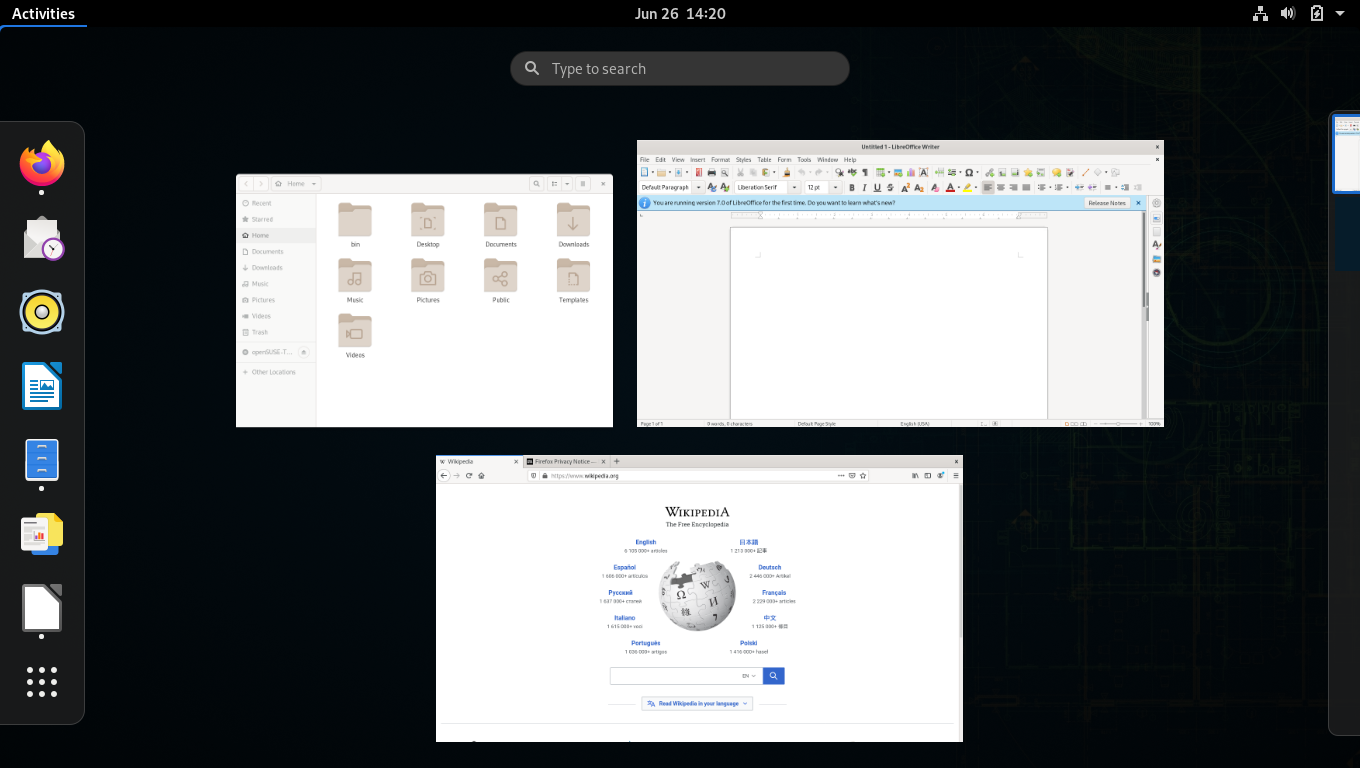
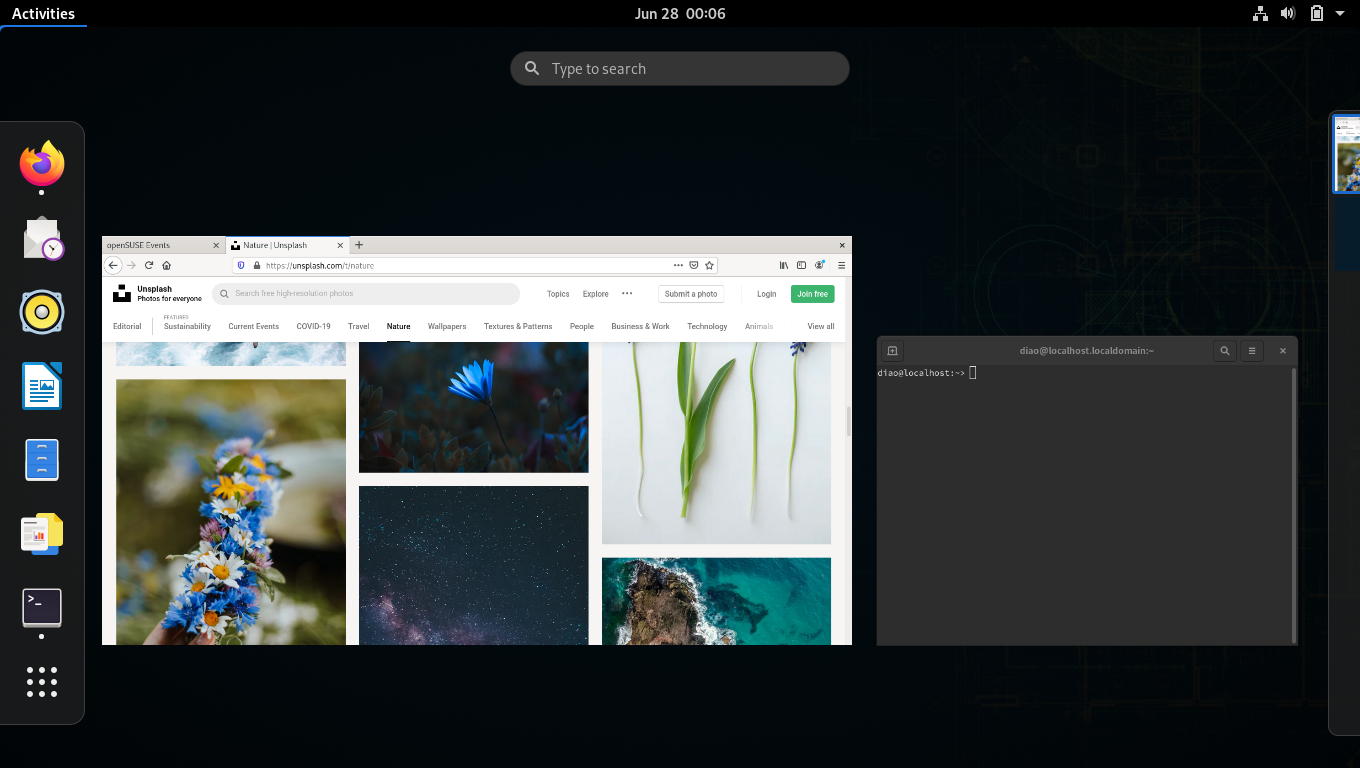
Tools and more screenshots

diff --git a/_includes/tools.html b/_includes/tools.html
@@ -1,0 +1,57 @@
+<section id="tools" class="py-5">
+  <div class="container">
+    <div class="row">
+      <div class="col-sm-6">
+        <h1>{{ locale.tools_title }}</h1>
+      </div>
+      <div class="col-sm-6">
+        <div class="media">
+          <svg class="tool-logo mr-3" viewBox="0 0 16 16" width="4em" height="4em" fill="currentColor">
+            <path
+              d="M6.412 3.007v5.507l-1.717.344v-5.85L2.977 4.04v5.161l-2.283.454L0 13.337l11.564 1.721V.942L9.846 1.974v5.853l-1.717.344V1.974z" />
+            <path
+              d="M11.564.942v14.116L16 13.337l-.252-3.682-3.461-1.828V1.974zM8.129 1.99v6.18l.633-.126V3.059zM4.696 3.012l-.001 5.846.634-.127V4.045z"
+              opacity="0.5" />
+          </svg>
+          <div class="media-body">
+            <h5 class="mt-0">Open Build Service</h5>
+            <p>{{ locale.obs_summary }}</p>
+          </div>
+        </div>
+        <div class="media">
+          <svg class="tool-logo mr-3" viewBox="0 0 24 24" fill="currentColor">
+            <path
+              d="M6.77 3.771a7.2 7.2 0 00-5.011 2.104c-2.615 2.901-2.01 7.513-.166 9.383 1.842 1.87 3.332 2.067 3.332 2.067l1.052-2.522c-.545-.273-2.019-1.24-2.648-2.313-.628-1.072-.65-3.504 1.231-4.998 1.881-1.493 4.284-.87 5.273.433.99 1.302 1.254 2.321.933 5.162l-.003.015a5.75 5.75 0 001.475 5.697c1.407 1.406 3.199 1.669 5.138 1.229l-.044-2.453c-1.147.456-2.218.186-3.09-.687a3.093 3.093 0 014.371-4.372c.619.62.863 1.492.84 1.928l-.065 5.78h1.378l.01.01h2.426L24 18.079l-2.352-.01c-.008-1.585-.01-3.42.019-4.135.049-1.191-.078-2.279-1.166-3.369-1.107-1.107-2.582-1.64-4.09-1.64a6.21 6.21 0 00-2.634.609c-.13-1.675-.884-3.065-1.894-3.946-2.01-1.751-3.209-1.846-5.114-1.819zm.363 9.551l-2.038 5.387 1.991 1.36 1.958-5.13z" />
+          </svg>
+          <div class="media-body">
+            <h5 class="mt-0">openQA</h5>
+            <p>{{ locale.oqa_summary }}</p>
+          </div>
+        </div>
+        <div class="media">
+          <svg class="tool-logo mr-3" viewBox="0 0 16 16" fill="currentColor">
+            <path opacity="0.5"
+              d="M2.317.233l.79 2.64 1.265 1.51a3.569 3.569 0 00-1.215.455c-.447.393-.695.886-.89 1.406L.845 7.349c-.076-.065-.132-.011-.193.014-.217.128-.455.238-.582.441-.23.599.16.92.41 1.29.158.173.515.391.856.414l2.817-1.377 1.538-.287c-.27 1.873-.245 3.912-.298 5.907l-.813 1.366-.195.156 4.884-.377 1.9.871.594-.26 1.214-.065-.258-.338.916-.04-.05.482.813-.468h.362l.22.195.4-.286.62-.026c-.357-2.018-.584-4.058-.788-6.102-.04-.527-.082-1.051-.22-1.406a5.044 5.044 0 00-1.252-1.678c-.63-.52-1.28-.992-2.003-1.275-.642-.243-1.284-.074-1.925.053a10.693 10.693 0 00-2.08.715c.133-.312.359-.611.65-.765.399-.208.74-.302 1.159-.419.375-.14.612-.37.865-.586.698-.84 1.298-1.706 1.886-2.576-1.06.243-2.12.656-3.179 1.054-.671.25-1.273.57-1.782 1.067l-1.085 1.08c-.244.187-.367-.006-.505-.156l-.8-1.198zm5.506 10.43l.886.301.79 1.448-.763 1.413-.73.418s-.517-3.264-.49-3.279c.027-.013.307-.302.307-.302zm4.925.726l.66 1.292.142 1.183-.927 1.118s-.64-.684-.621-.722c.018-.039.498-2.813.498-2.813z" />
+            <path
+              d="M2.908 1.262l.639 1.5 1.562 1.786a6.77 6.77 0 00-1.382.378c-.24.116-.47.24-.597.494l-.39.69c-.125.253-.39.455-.651.66l-1.067.834c.213.103.403.238.578.398-.188-.104-.371-.214-.591-.271-.153-.024-.304-.023-.444.089-.125.104-.11.28-.085.444.048.254.26.48.502.65.225.101.432.05.631-.068.173-.16.243-.44.222-.825.124-.023.097.718.119.633.011-.045 1.828-.954 2.31-1.066.49-.127 1.255-.168 1.809-.34.344-.11.596-.372.809-.7l-.172.365a.98.98 0 01-.563.427l-.309 3.281-.006 3.174-.537.8.366-.013.389-.514-.286.616s1.873-.126 1.873-.112c0 .013-.578-3.796-.578-3.796s.626-.7.639-.71c.013-.01 2.289.769 2.289.769l-.35-.414-.288-.159.349.116s.811.983.815.997c.004.013.145-.177.145-.177l-.85 3.45 1.129.384-.036-.527.27.654.416.028-.281-.682.489.594.268-.054-.483-.696.564-3.36-.65-.513-.505-.676.478.486-.518-.737-.04-.973.18.838.196-.689-.1.805.375.825.752.56-.014.129.592-.217.382-.864.033-.535.055.542s-.329.796-.329.824c0 .026.43-.406.43-.406l-.472.554.753 1.358.255 1.481.188-.134-.04.053-.605.79.397-.086.154-.244-.068.297.141.007-.032.324.295-.264.22.069.069-.394v.4l.207-.04.1.337.148-.426.289-.013c-.276-2.09-.64-4.181-.738-6.272-.01-.398-.345-1.102-.705-1.563-.42-.484-1.28-1.52-2.498-1.81-.665-.08-1.342.028-2.08.269-.652.191-1.326.424-2.058.775.172.283.4.56.79.889.122.119.341.152.557.135-.15.053-.303.098-.464.013a3.655 3.655 0 01-.684-.634 2.454 2.454 0 01-.316-.508c-.124-.283.022-.642.262-1.027.218-.268.458-.53.946-.717.44-.175.88-.35 1.297-.581.471-.306 1.223-1.28 1.623-1.961-1.09.4-2.179.72-3.262 1.358-.405.278-.803.71-1.208 1.156-.173.195-.36.378-.605.508-.336.18-.568.009-.724-.129a5.176 5.176 0 01-.637-.85c-.24-.33-.492-.66-.86-.988-.423-.393-.804-.846-1.188-1.258zM9.802 2.34l-.96 1.166.651-.226-1.31.643zM5.248 4.773c.085-.001.169 0 .25.01-.53.04-.773.132-1.233.368.169-.129.264-.225.568-.329.133-.03.275-.046.415-.049zm.148.733a.9.9 0 01.44.12c-.582-.157-.9-.027-1.15.354-.029-.024.166-.355.423-.433a.923.923 0 01.287-.041zM5.35 5.7a.676.676 0 01.165.014c.108.038.158.119.211.195-.113-.1-.23-.178-.37-.141.16.018.22.118.242.25.02.177-.132.28-.234.296-.1.015-.23-.011-.305-.12-.022-.045-.079-.208.012-.325a.889.889 0 00-.268.17.954.954 0 01.278-.26.592.592 0 01.27-.08zM1.061 8.01c.136.16.269.315.334.529.009.197-.078.193-.164.192-.07-.001-.206-.082-.162-.148a.52.52 0 00.051-.275zm-.497.049c.106.112.211.186.23.343.009.037.016.13-.058.115-.215-.203-.085-.181-.171-.458z" />
+          </svg>
+          <div class="media-body">
+            <h5 class="mt-0">YaST</h5>
+            <p>{{ locale.yast_summary }}</p>
+          </div>
+        </div>
+        <div class="media">
+          <svg class="tool-logo mr-3" viewBox="0 0 32 32" fill="currentColor">
+            <circle r="16" cy="16" cx="16" opacity="0.5" />
+            <path
+              d="M15.996 3a.5 5 0 00-.496 5 .5 5 0 00.5 5 .5 5 0 00.5-5 .5 5 0 00-.5-5 .5 5 0 00-.004 0zm-3.338.441a5 .5 75 00-.023.002 5 .5 75 00.812 4.96 5 .5 75 001.776 4.699 5 .5 75 00-.81-4.96 5 .5 75 00-1.755-4.7zm6.701 0a.5 5 15 00-1.771 4.702.5 5 15 00-.81 4.959.5 5 15 001.775-4.7.5 5 15 00.812-4.959.5 5 15 00-.006-.002zM9.521 4.734a5 .5 60 00-.021.008 5 .5 60 002.066 4.58 5 .5 60 002.934 4.08 5 .5 60 00-2.066-4.58A5 .5 60 009.52 4.734zm12.952 0a.5 5 30 00-2.907 4.088.5 5 30 00-2.066 4.58.5 5 30 002.934-4.08.5 5 30 002.066-4.58.5 5 30 00-.027-.008zM25.14 6.79a.5 5 45 00-3.838 3.201.5 5 45 00-3.182 3.889.5 5 45 003.889-3.182.5 5 45 003.183-3.89.5 5 45 00-.052-.018zm-18.287.002a5 .5 45 00-.047.016 5 .5 45 003.183 3.89 5 .5 45 003.889 3.182 5 .5 45 00-3.182-3.889 5 .5 45 00-3.843-3.199zM4.855 9.463a5 .5 30 00-.113.037 5 .5 30 004.08 2.934 5 .5 30 004.58 2.066 5 .5 30 00-4.08-2.934 5 .5 30 00-4.467-2.103zm22.28 0a.5 5 60 00-4.457 2.103.5 5 60 00-4.08 2.934.5 5 60 004.58-2.066.5 5 60 004.08-2.934.5 5 60 00-.123-.037zM3.717 12.549a5 .5 15 00-.274.086 5 .5 15 004.7 1.777 5 .5 15 004.959.81 5 .5 15 00-4.7-1.775 5 .5 15 00-4.685-.898zm24.472 0a.5 5 75 00-4.591.898.5 5 75 00-4.7 1.776.5 5 75 004.96-.81.5 5 75 004.699-1.778.5 5 75 00-.368-.086zM7.73 15.5A5 .5 0 003 16a5 .5 0 005 .5 5 .5 0 005-.5 5 .5 0 00-5-.5 5 .5 0 00-.27 0zm16 0A5 .5 0 0019 16a5 .5 0 005 .5 5 .5 0 005-.5 5 .5 0 00-5-.5 5 .5 0 00-.27 0zm-10.994 1.19a.5 5 75 00-4.593.898.5 5 75 00-4.7 1.777.5 5 75 004.96-.812.5 5 75 004.699-1.776.5 5 75 00-.366-.088zm6.512 0a5 .5 15 00-.35.087 5 .5 15 004.7 1.776 5 .5 15 004.959.812 5 .5 15 00-4.7-1.777 5 .5 15 00-4.609-.899zm-5.969.773a.5 5 60 00-4.457 2.103.5 5 60 00-4.08 2.934.5 5 60 004.58-2.066.5 5 60 004.08-2.934.5 5 60 00-.123-.037zm5.432 0a5 .5 30 00-.113.037 5 .5 30 004.08 2.934 5 .5 30 004.58 2.066 5 .5 30 00-4.08-2.934 5 .5 30 00-4.467-2.103zm-4.885.64a.5 5 45 00-3.836 3.2.5 5 45 00-3.183 3.89.5 5 45 003.89-3.183.5 5 45 003.182-3.889.5 5 45 00-.053-.017zm4.34 0a5 .5 45 00-.045.018 5 .5 45 003.182 3.889 5 .5 45 003.89 3.183 5 .5 45 00-3.183-3.89 5 .5 45 00-3.844-3.2zm-3.693.489a.5 5 30 00-2.907 4.086.5 5 30 00-2.066 4.58.5 5 30 002.934-4.08.5 5 30 002.066-4.58.5 5 30 00-.027-.006zm3.048 0a5 .5 60 00-.021.006 5 .5 60 002.066 4.58 5 .5 60 002.934 4.08 5 .5 60 00-2.066-4.58 5 .5 60 00-2.913-4.086zm-2.302.304a.5 5 15 00-1.772 4.702.5 5 15 00-.812 4.959.5 5 15 001.777-4.7.5 5 15 00.81-4.959.5 5 15 00-.003-.002zm1.58 0a5 .5 75 00-.022.002 5 .5 75 00.81 4.96 5 .5 75 001.778 4.699 5 .5 75 00-.812-4.96 5 .5 75 00-1.754-4.7zM16 19a-.5-5 0 00-.5 5-.5-5 0 00.5 5-.5-5 0 00.5-5-.5-5 0 00-.5-5z" />
+          </svg>
+          <div class="media-body">
+            <h5 class="mt-0">KIWI</h5>
+            <p>{{ locale.kiwi_summary }}</p>
+          </div>
+        </div>
+      </div>
+    </div>
+  </div>
+</section>

diff --git a/_includes/screenshots.html b/_includes/screenshots.html
@@ -1,18 +1,20 @@
-<section id="screenshots">
-  <div class="container my-3">
+<section id="screenshots" class="my-5">
+  <div class="container">
     <div id="screenshot-wrap">
       <img class="d-block w-100" src="/assets/images/laptop.svg" />
-      <div id="screenshot-carousel" class="carousel slide carousel-fade" data-ride="carousel">
+      <div id="screenshot-carousel" class="carousel slide carousel-fade" data-ride="carousel" data-interval="2000">
+        <ol class="carousel-indicators">
+          {% for counter in (0..5) %}
+          <li data-target="#screenshot-carousel" data-slide-to="{{ counter }}"
+            class="{% if counter == 0 %}active{% endif %}"></li>
+          {% endfor %}
+        </ol>
         <div class="carousel-inner">
-          <div class="carousel-item active">
-            <img src="/assets/images/screenshot-1.png" class="d-block w-100" alt="GNOME desktop">
+          {% for counter in (1..6) %}
+          <div class="carousel-item {% if counter == 1 %}active{% endif %}">
+            <img src="/assets/images/screenshot-{{ counter }}.png" class="d-block w-100">
           </div>
-          <div class="carousel-item">
-            <img src="/assets/images/screenshot-2.png" class="d-block w-100" alt="GNOME windows">
-          </div>
-          <div class="carousel-item">
-            <img src="/assets/images/screenshot-3.png" class="d-block w-100" alt="GNOME launcher">
-          </div>
+          {% endfor %}
         </div>
       </div>
     </div>

diff --git a/index.html b/index.html
@@ -5,3 +5,4 @@ layout: default
 {% include background.html %}
 {% include distros.html %}
 {% include screenshots.html %}
+{% include tools.html %}

diff --git a/assets/css/home.css b/assets/css/home.css
@@ -32,3 +32,8 @@
   left: 8.3333%;
   top: 7.0175%;
 }
+
+.tool-logo {
+  width: 4rem;
+  height: 4rem;
+}
